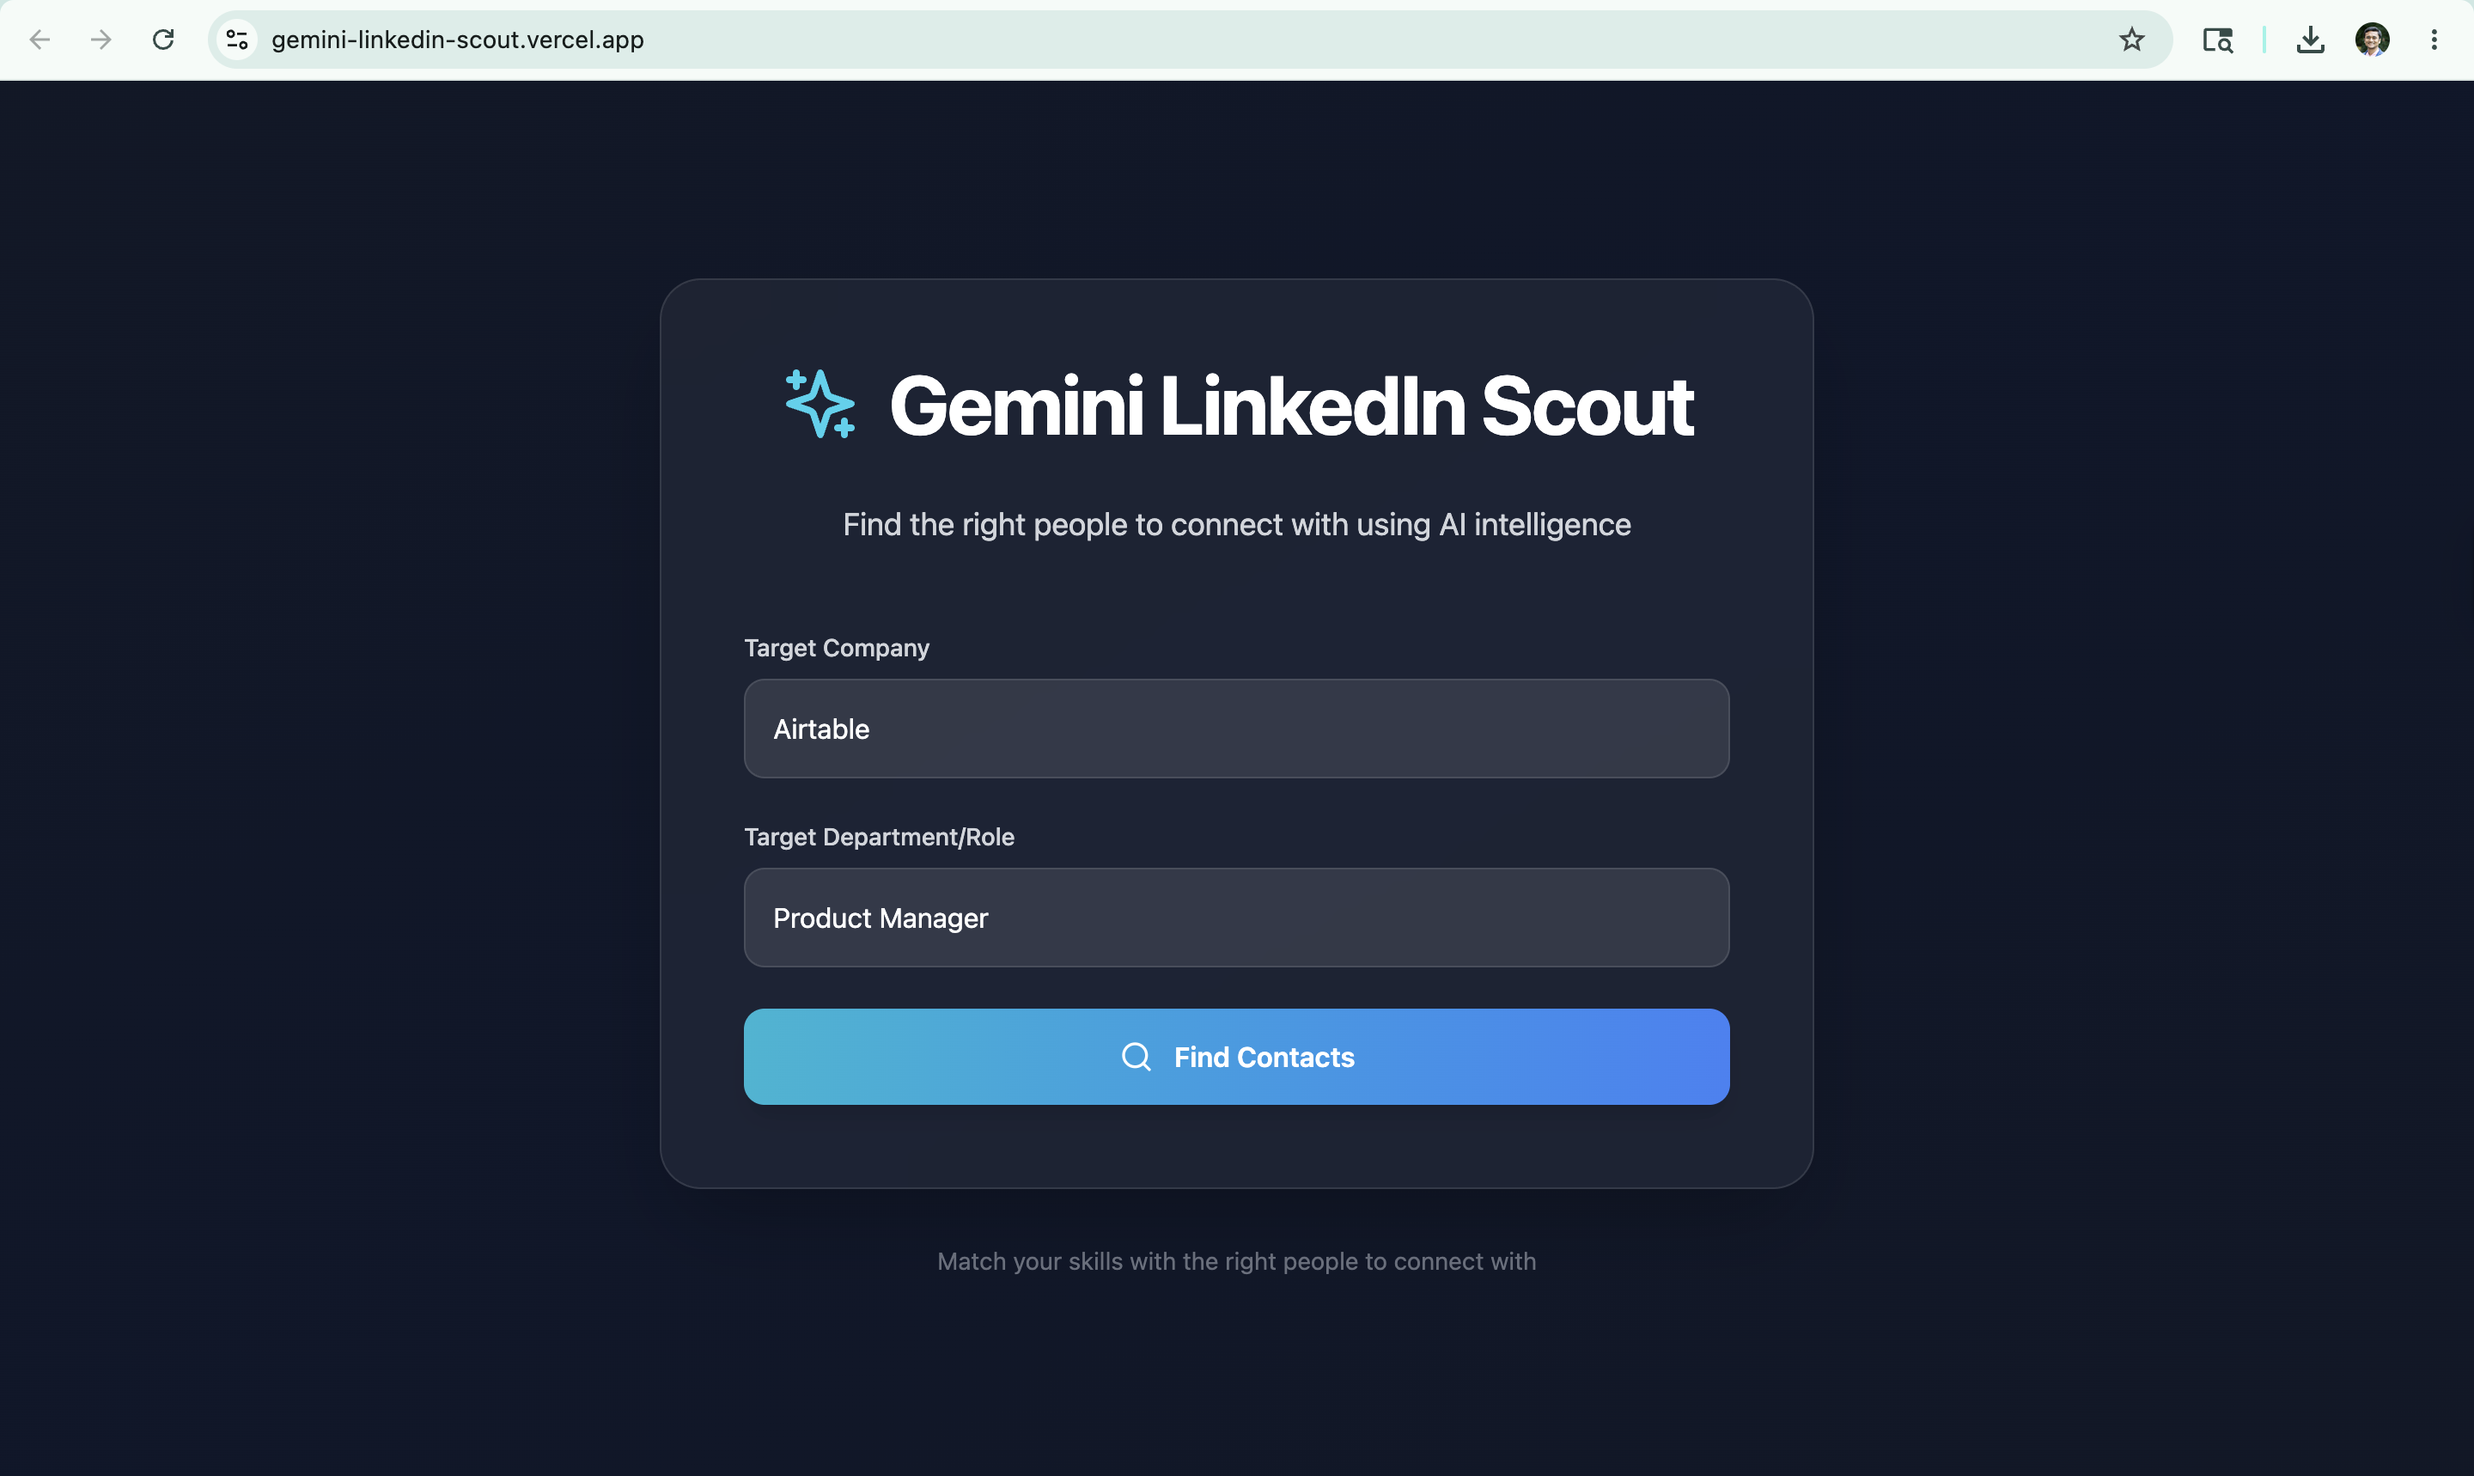
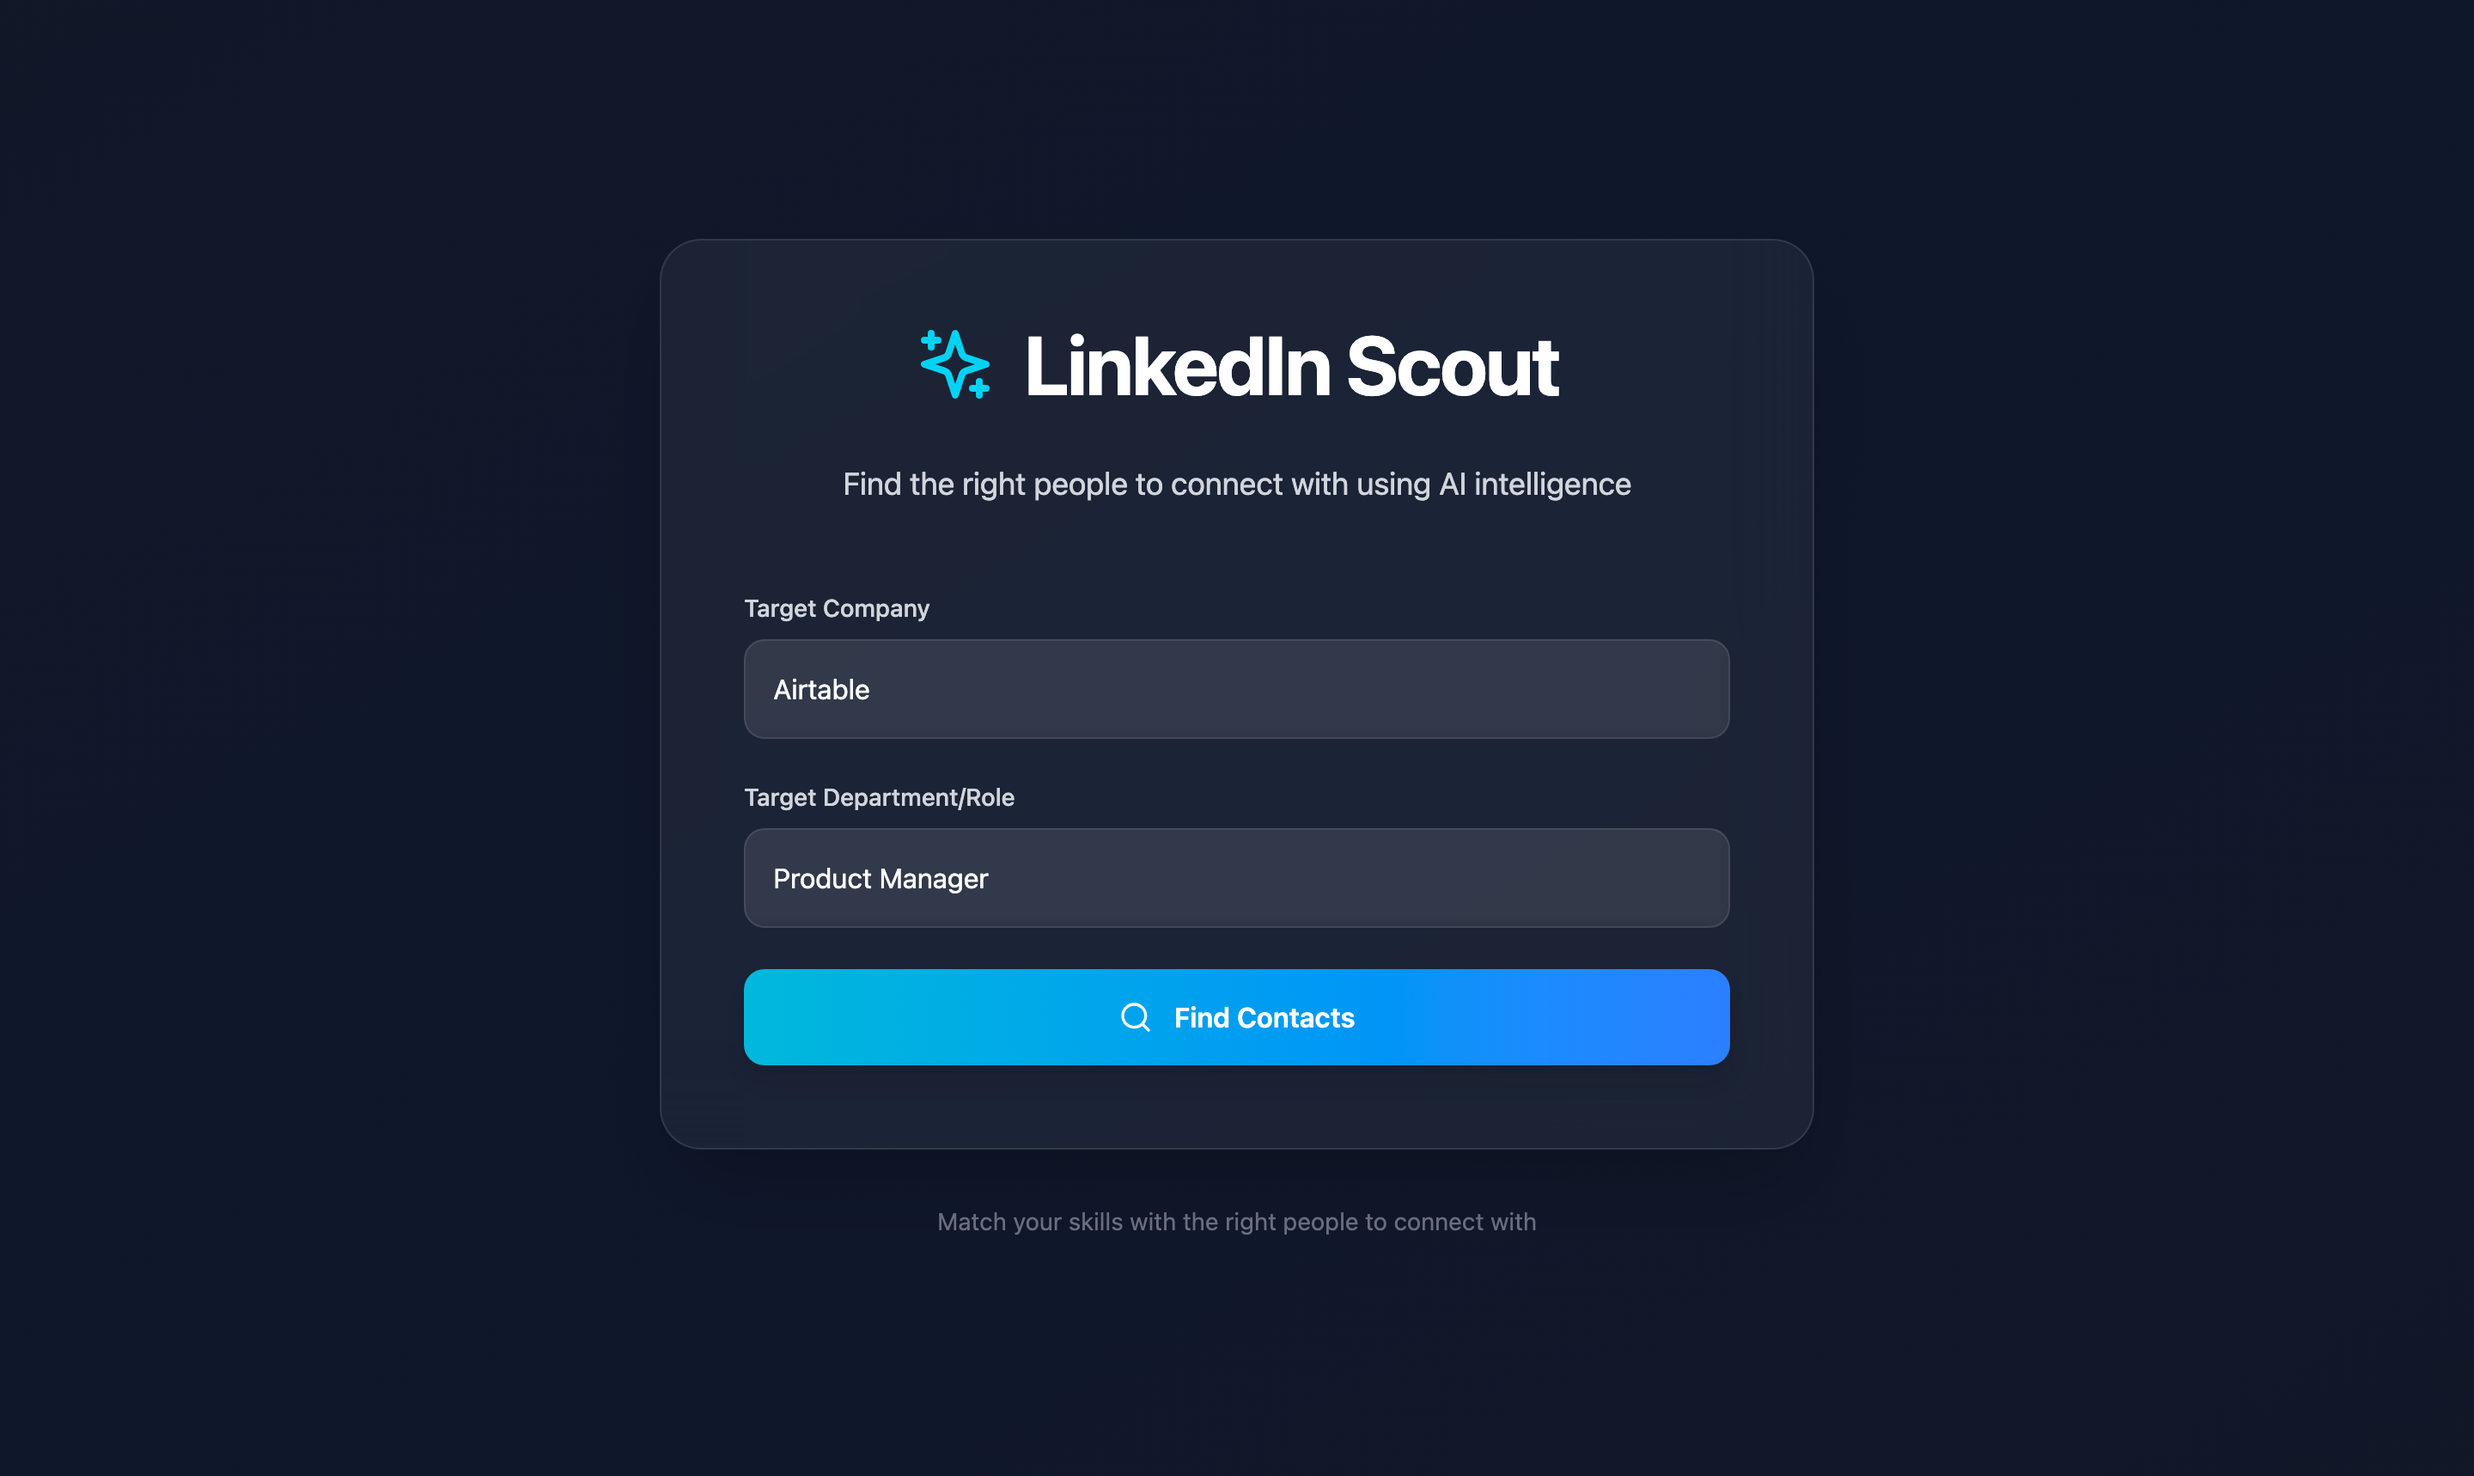
Rename to LinkedIn Scout at rishav-linkedin-scout.vercel.app
- Page title, heading and link previews say "LinkedIn Scout"; the preview
  image and the docs landing screenshot are regenerated with the new title.
- Absolute links point to https://rishav-linkedin-scout.vercel.app and the
  repo's new name, github.com/rishav-dutta/linkedin-scout.
- The n8n-proxy Edge Function accepts the new site address (the old one
  stays allowed while it redirects).
- package name linkedin-scout.

Gemini is still named where it describes the AI model that scores matches.

diff --git a/docs/index.html b/docs/index.html
@@ -3,7 +3,7 @@
 <head>
 <meta charset="UTF-8"/>
 <meta name="viewport" content="width=device-width, initial-scale=1.0"/>
-<title>Gemini LinkedIn Scout — AI Networking Tool</title>
+<title>LinkedIn Scout — AI Networking Tool</title>
 <link rel="preconnect" href="https://fonts.googleapis.com"/>
 <link href="https://fonts.googleapis.com/css2?family=Syne:wght@400;600;700;800&family=IBM+Plex+Mono:wght@400;500&family=DM+Sans:wght@300;400;500&display=swap" rel="stylesheet"/>
 <style>
@@ -763,7 +763,7 @@ footer {
     <li><a href="#decisions">Decisions</a></li>
     <li><a href="#metrics">Metrics</a></li>
   </ul>
-  <a href="https://gemini-linkedin-scout.vercel.app" target="_blank" class="nav-cta">Open App ↗</a>
+  <a href="https://rishav-linkedin-scout.vercel.app" target="_blank" class="nav-cta">Open App ↗</a>
 </nav>
 
 <!-- HERO -->
@@ -772,8 +772,8 @@ footer {
   <h1 class="hero-title">Find the right<br/><span class="accent">people.</span></h1>
   <p class="hero-sub">Enter a company + role. Get a ranked list of LinkedIn contacts scored against your resume — with AI reasoning for every match.</p>
   <div class="hero-actions">
-    <a href="https://gemini-linkedin-scout.vercel.app" target="_blank" class="btn-primary">Try the App ↗</a>
-    <a href="https://github.com/rishav-dutta/gemini-linkedin-scout" target="_blank" class="btn-ghost">View on GitHub</a>
+    <a href="https://rishav-linkedin-scout.vercel.app" target="_blank" class="btn-primary">Try the App ↗</a>
+    <a href="https://github.com/rishav-dutta/linkedin-scout" target="_blank" class="btn-ghost">View on GitHub</a>
   </div>
   <div class="hero-stats">
     <div class="stat">
@@ -1072,7 +1072,7 @@ footer {
       <p style="color:var(--text-dim); font-weight:300; font-size:1rem; line-height:1.8; margin-bottom:2rem;">MBA candidate at Simon Business School (University of Rochester), graduating May 2026. 5+ years of product management experience across consumer mobility, logistics, and B2B SaaS. Built this solo — as PM, designer, and developer — to solve a real problem I was facing during my own job search.</p>
       <div style="display:flex; gap:1rem; flex-wrap:wrap;">
         <a href="https://linkedin.com/in/duttarishav" target="_blank" class="btn-primary">Connect on LinkedIn ↗</a>
-        <a href="https://github.com/rishav-dutta/gemini-linkedin-scout/raw/main/linkedin_scout_documentation.pdf" target="_blank" class="btn-ghost">View Documentation ↗</a>
+        <a href="https://github.com/rishav-dutta/linkedin-scout/raw/main/linkedin_scout_documentation.pdf" target="_blank" class="btn-ghost">View Documentation ↗</a>
       </div>
     </div>
     <div class="reveal">
@@ -1103,7 +1103,7 @@ footer {
   <h2 class="cta-title reveal">Try it yourself.</h2>
   <p class="cta-sub reveal">No account needed. Enter a company and a role to get started.</p>
   <div class="reveal">
-    <a href="https://gemini-linkedin-scout.vercel.app" target="_blank" class="btn-primary">Open LinkedIn Scout ↗</a>
+    <a href="https://rishav-linkedin-scout.vercel.app" target="_blank" class="btn-primary">Open LinkedIn Scout ↗</a>
   </div>
 </section>
 
@@ -1111,8 +1111,8 @@ footer {
   <div class="footer-left">Built by Rishav Dutta · Simon Business School '26</div>
   <div class="footer-right">
     <a href="https://linkedin.com/in/duttarishav" target="_blank">LinkedIn</a>
-    <a href="https://github.com/rishav-dutta/gemini-linkedin-scout" target="_blank">GitHub</a>
-    <a href="https://gemini-linkedin-scout.vercel.app" target="_blank">Live App</a>
+    <a href="https://github.com/rishav-dutta/linkedin-scout" target="_blank">GitHub</a>
+    <a href="https://rishav-linkedin-scout.vercel.app" target="_blank">Live App</a>
   </div>
 </footer>
 

diff --git a/index.html b/index.html
@@ -4,14 +4,14 @@
     <meta charset="UTF-8" />
     <link rel="icon" type="image/svg+xml" href="/favicon.svg" />
     <meta name="viewport" content="width=device-width, initial-scale=1.0" />
-    <title>Gemini LinkedIn Scout</title>
+    <title>LinkedIn Scout</title>
     <meta name="description" content="Find the right people to connect with at a company, ranked by how well they match your resume." />
-    <meta property="og:title" content="Gemini LinkedIn Scout" />
+    <meta property="og:title" content="LinkedIn Scout" />
     <meta property="og:description" content="Find the right people to connect with at a company, ranked by how well they match your resume." />
-    <meta property="og:image" content="https://gemini-linkedin-scout.vercel.app/og-image.png" />
-    <meta property="og:url" content="https://gemini-linkedin-scout.vercel.app/" />
+    <meta property="og:image" content="https://rishav-linkedin-scout.vercel.app/og-image.png" />
+    <meta property="og:url" content="https://rishav-linkedin-scout.vercel.app/" />
     <meta name="twitter:card" content="summary_large_image" />
-    <meta name="twitter:image" content="https://gemini-linkedin-scout.vercel.app/og-image.png" />
+    <meta name="twitter:image" content="https://rishav-linkedin-scout.vercel.app/og-image.png" />
   </head>
   <body>
     <div id="root"></div>

diff --git a/src/components/LandingScreen.tsx b/src/components/LandingScreen.tsx
@@ -47,7 +47,7 @@ export function LandingScreen({ onFindLeads, initialCompany = '', initialRole = 
           >
             <Sparkles className="w-8 h-8 sm:w-12 sm:h-12 text-cyan-400 mr-3 sm:mr-4 shrink-0" />
             <h1 className="text-3xl sm:text-5xl font-bold text-white tracking-tight">
-              Gemini LinkedIn Scout
+              LinkedIn Scout
             </h1>
           </motion.div>
 

diff --git a/supabase/functions/n8n-proxy/index.ts b/supabase/functions/n8n-proxy/index.ts
@@ -17,6 +17,8 @@
 import { createClient } from "npm:@supabase/supabase-js@2";
 
 const ALLOWED_ORIGINS = [
+  "https://rishav-linkedin-scout.vercel.app",
+  // Previous address; now redirects to the one above. Kept so the switch can't break searches.
   "https://gemini-linkedin-scout.vercel.app",
   "http://localhost:5173",
 ];

diff --git a/README.md b/README.md
@@ -1,1 +1,1 @@
-📄 [Project Documentation](https://github.com/rishav-dutta/gemini-linkedin-scout/raw/main/linkedin_scout_documentation.pdf)
+📄 [Project Documentation](https://github.com/rishav-dutta/linkedin-scout/raw/main/linkedin_scout_documentation.pdf)
